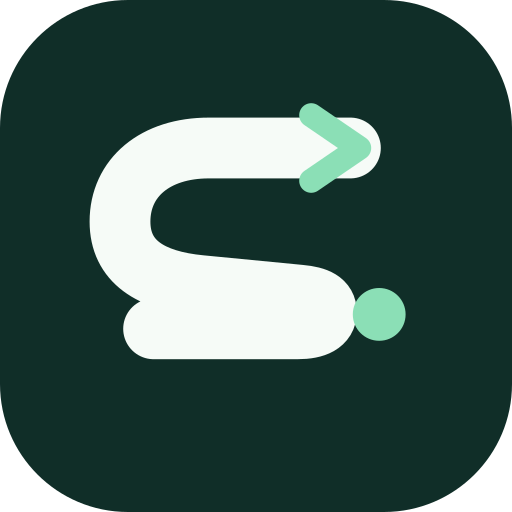
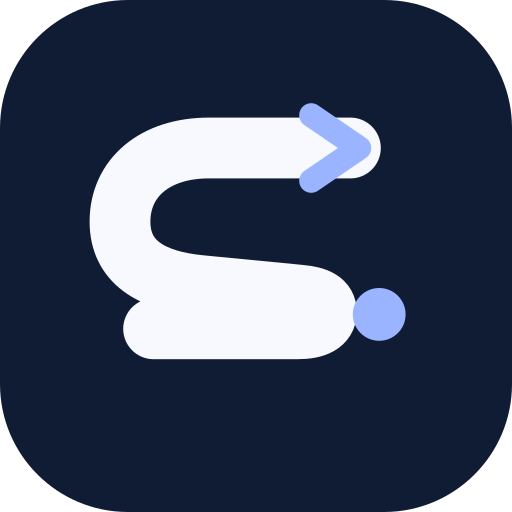
Refresh StockSOS visual system and homepage

Changed region(s): [[0.5625, 0.1875, 0.75, 0.375], [0.6875, 0.5625, 0.8125, 0.6875]]

diff --git a/src/app/visual-refresh.css b/src/app/visual-refresh.css
@@ -1,0 +1,231 @@
+/* StockSOS visual refresh. Shared tokens and components apply across routes. */
+:root {
+  --navy: #101c33;
+  --navy-soft: #2b3e61;
+  --blue: #3159dd;
+  --blue-dark: #2147c1;
+  --blue-pale: #eaf0ff;
+  --ink: #26334d;
+  --muted: #66748d;
+  --line: #dce3ef;
+  --surface: #f1f4fa;
+  --green: #129982;
+  --shadow: 0 16px 42px rgba(14, 28, 57, .09);
+}
+
+body { color: var(--ink); background: #f7f9fd; font-family: Inter, ui-sans-serif, system-ui, -apple-system, BlinkMacSystemFont, "Segoe UI", sans-serif; }
+main { background: #f7f9fd; }
+.header-inner, .page-container, .footer-main, .footer-bottom { width: min(1120px, calc(100% - 48px)); }
+.site-header { height: 70px; border-color: #e5e9f2; background: rgba(255, 255, 255, .94); box-shadow: 0 2px 18px rgba(19, 35, 67, .035); }
+.brand { font-size: 19px; letter-spacing: -.055em; }
+.brand-logo-mark { width: 38px; height: 38px; }
+.brand-accent { color: var(--blue); }
+.primary-nav { gap: 28px; color: #4c5d78; font-size: 12px; }
+.primary-nav a::after { background: var(--blue); }
+.header-actions { gap: 17px; }
+.header-actions .install-app-action, .header-login { color: #4c5d78; font-size: 12px; }
+.button { min-height: 43px; padding: 0 17px; border-radius: 11px; font-size: 12px; letter-spacing: -.01em; box-shadow: none; }
+.button-small { min-height: 38px; padding: 0 13px; }
+.button-primary { background: var(--blue); box-shadow: 0 7px 17px rgba(49, 89, 221, .15); }
+.button-primary:hover { background: var(--blue-dark); box-shadow: 0 10px 22px rgba(49, 89, 221, .2); }
+.button-secondary { color: var(--navy); border-color: #cfd8e8; background: #fff; }
+.button-secondary:hover { border-color: #a9b9d7; background: #f8faff; }
+.button-quiet { color: var(--blue-dark); background: var(--blue-pale); }
+.text-link { color: var(--blue-dark); }
+.eyebrow { color: var(--blue); letter-spacing: .115em; }
+h1, h2, h3 { color: var(--navy); letter-spacing: -.045em; }
+.lead { color: #60708a; }
+.section { padding: 68px 0; }
+.section-tight { padding: 48px 0; }
+.section-heading { margin-bottom: 32px; }
+.page-hero { position: relative; overflow: hidden; padding: 55px 0 43px; border-bottom: 1px solid #e1e8f4; background: radial-gradient(circle at 83% -40%, #dfe9ff 0, transparent 42%), #f1f5fd; }
+.page-hero::after { position: absolute; right: 4%; bottom: -125px; width: 250px; height: 250px; border: 1px solid #dbe5f8; border-radius: 50%; content: ""; pointer-events: none; }
+.page-hero h1 { max-width: 820px; margin: 12px 0 13px; font-size: clamp(35px, 4.5vw, 52px); line-height: 1.08; }
+.page-hero .lead { max-width: 680px; margin-bottom: 20px; font-size: 15px; line-height: 1.6; }
+.panel, .feature-card, .stat-card, .product-card, .auth-panel, .info-card { border: 1px solid var(--line); border-radius: 17px; background: #fff; box-shadow: 0 7px 24px rgba(15, 31, 65, .045); }
+.feature-icon { border-radius: 11px; color: var(--blue); background: var(--blue-pale); }
+.workflow-card { border: 1px solid var(--line); border-radius: 15px; background: #fff; }
+.workflow-number { color: #6d83b2; }
+.reach-explainer-points p { color: #4b5e7d; border-color: #dfe7f5; background: #f4f7fd; }
+.reach-explainer-points svg { color: var(--blue); }
+.form-field input, .form-field select, .form-field textarea, .search-input, .voice-field-row input { border-color: #cfd9e9; border-radius: 10px; }
+.form-field input:focus, .form-field select:focus, .form-field textarea:focus, .search-input:focus, .voice-field-row input:focus { border-color: var(--blue); outline-color: rgba(49, 89, 221, .13); }
+button:focus-visible, a:focus-visible, input:focus-visible, select:focus-visible, textarea:focus-visible, summary:focus-visible { outline-color: rgba(49, 89, 221, .45); }
+.dashboard-shell, .admin-console { background: #f3f6fc; }
+.supplier-workspace-nav a { border-color: var(--line); background: #fff; }
+.supplier-workspace-nav a > svg:first-child, .supplier-today .eyebrow, .supplier-task-action { color: var(--blue); }
+.supplier-task-icon, .supplier-today-icon { color: var(--blue); background: var(--blue-pale); }
+.admin-console-sidebar { border-color: #e1e7f2; }
+.admin-console-nav a[aria-current="page"], .admin-console-nav a:hover, .admin-console-nav a:focus-visible { color: var(--blue-dark); background: var(--blue-pale); }
+.admin-console-header { border-color: #e1e7f2; }
+.site-footer { padding-top: 43px; color: #cfdaec; border-color: #243655; background: #101c33; }
+.site-footer .brand { color: #fff; }
+.site-footer .brand-accent { color: #91afff; }
+.footer-brand p, .footer-location, .footer-links a, .footer-bottom { color: #a9b8d2; }
+.footer-links h3 { color: #f7f9ff; }
+.footer-bottom { border-color: #2b3b59; }
+.footer-phone { color: #e0eaff; }
+.auth-shell { background: radial-gradient(circle at 9% 5%, #e5ecff, transparent 34%), linear-gradient(180deg, #f3f6fd, #fff 75%); }
+.auth-layout .auth-panel { border-color: var(--line); box-shadow: 0 19px 48px rgba(19, 39, 79, .09); }
+.auth-layout .form-field label { color: var(--ink); }
+.auth-layout .form-field input:focus { border-color: var(--blue); box-shadow: 0 0 0 3px rgba(49, 89, 221, .12); }
+.auth-story { color: #eaf0ff; background: radial-gradient(circle at 90% 8%, rgba(111, 147, 255, .26), transparent 40%), linear-gradient(155deg, #101b34, #254377); box-shadow: 0 24px 60px rgba(15, 36, 83, .16); }
+.auth-story-kicker { color: #b2c9ff; }
+.auth-story-kicker span { background: #88a9ff; box-shadow: 0 0 0 4px rgba(136, 169, 255, .13); }
+.auth-story > p, .auth-story-steps small { color: #c5d4ed; }
+.auth-story-steps > div { border-color: rgba(225, 235, 255, .16); }
+.auth-story-steps > div > span { color: #a9c3ff; background: rgba(146, 177, 255, .14); }
+.auth-story-steps > div > svg, .auth-story-footnote { color: #a4b9e1; }
+.sign-in-methods { border-color: #dce4f2; background: #f1f4fa; }
+.sign-in-methods button { color: #62718a; }
+.sign-in-methods button[aria-pressed="true"], .sign-in-methods button:hover:not([aria-pressed="true"]) { color: var(--blue-dark); }
+.sign-in-methods button[aria-pressed="true"] { box-shadow: 0 2px 8px rgba(29, 48, 90, .09); }
+
+/* Home: a focused entry point, real inventory, then supplier distribution. */
+.home-page .hero { position: relative; isolation: isolate; padding: 64px 0 68px; color: #fff; background: radial-gradient(ellipse at 76% 23%, rgba(75, 107, 235, .34), transparent 40%), linear-gradient(135deg, #0b1428 5%, #162849 63%, #213d69 100%); }
+.home-page .hero::before { position: absolute; z-index: -1; inset: 0; width: 100%; height: 100%; border: 0; border-radius: 0; background-image: linear-gradient(rgba(255,255,255,.035) 1px, transparent 1px), linear-gradient(90deg, rgba(255,255,255,.035) 1px, transparent 1px); background-size: 56px 56px; mask-image: linear-gradient(90deg, transparent 20%, #000 100%); content: ""; pointer-events: none; }
+.home-page .hero::after { right: -170px; bottom: -280px; border-color: rgba(160, 189, 255, .13); animation: none; }
+.home-page .hero-grid { grid-template-columns: 1.04fr .96fr; gap: 46px; align-items: center; }
+.home-page .hero-copy { max-width: 610px; padding: 0; }
+.home-page .hero-copy > .eyebrow { margin-bottom: 17px; padding: 7px 11px; color: #a6c7ff; border-color: rgba(174, 201, 255, .2); background: rgba(174, 201, 255, .08); font-size: 10px; }
+.home-page .hero .status-dot { background: #77e3ca; box-shadow: 0 0 0 4px rgba(119, 227, 202, .12); }
+.home-page .hero h1 { max-width: 650px; margin: 0 0 20px; color: #fff; font-size: clamp(47px, 5vw, 68px); line-height: 1.02; letter-spacing: -.064em; }
+.home-page .hero h1 .highlight { color: #99b6ff; }
+.home-page .hero-copy .lead { max-width: 510px; margin-bottom: 22px; color: #cbd7ec; font-size: 15px; line-height: 1.65; }
+.home-page .hero-stock-search { max-width: 550px; margin: 0 0 13px; }
+.home-page .hero-stock-search label { margin-bottom: 7px; color: #d3e1fb; font-size: 11px; }
+.home-page .hero-stock-search > div { display: flex; flex-wrap: nowrap; gap: 8px; min-height: 60px; padding: 7px 7px 7px 15px; border: 1px solid rgba(224, 235, 255, .55); border-radius: 13px; background: #fff; box-shadow: 0 16px 38px rgba(4, 13, 35, .23); }
+.home-page .hero-stock-search > div > svg { color: #59708f; }
+.home-page .hero-stock-search input { min-width: 0; color: var(--navy); font-size: 14px; }
+.home-page .hero-stock-search input::placeholder { color: #8794a7; }
+.home-page .hero-stock-search .button { width: auto; flex: 0 0 auto; min-height: 44px; padding: 0 15px; }
+.home-page .hero-stock-search > div:focus-within { border-color: #a8c0ff; box-shadow: 0 0 0 4px rgba(153, 182, 255, .17), 0 16px 38px rgba(4, 13, 35, .23); }
+.home-page .hero-buttons { display: flex; align-items: center; gap: 19px; margin: 0 0 18px; }
+.home-page .hero-buttons .button { flex: 0 0 auto; }
+.home-page .hero .hero-buttons .button-secondary { min-height: 38px; color: #eef4ff; border-color: rgba(217, 230, 255, .27); background: rgba(255, 255, 255, .07); }
+.home-page .hero .hero-buttons .button-secondary:hover { border-color: #a4bfff; background: rgba(255,255,255,.12); }
+.hero-inline-link { display: inline-flex; align-items: center; gap: 7px; color: #dbe7ff; font-size: 12px; font-weight: 700; }
+.hero-inline-link:hover { color: #fff; }
+.hero-microcopy { display: inline-flex; align-items: center; gap: 7px; margin: 0; color: #99abc9; font-size: 11px; }
+.hero-microcopy svg { color: #8fd8c9; }
+.home-page .hero-visual { min-height: 0; padding: 0; }
+.network-panel { width: min(100%, 480px); overflow: hidden; padding: 23px; color: #dfe9fb; border: 1px solid rgba(187, 209, 255, .31); border-radius: 20px; background: rgba(12, 27, 54, .88); box-shadow: 0 28px 70px rgba(2, 8, 22, .34); backdrop-filter: blur(18px); }
+.network-panel-top, .network-panel-bottom { display: flex; align-items: center; justify-content: space-between; gap: 12px; font-size: 9px; font-weight: 800; letter-spacing: .12em; }
+.network-panel-top { color: #99add0; }
+.network-panel-dots { display: inline-flex; gap: 5px; }
+.network-panel-dots i { width: 6px; height: 6px; border-radius: 50%; background: #6184da; }
+.network-panel-dots i:first-child { background: #75dcca; }
+.network-panel h2 { margin: 27px 0 3px; color: #fff; font-size: 27px; line-height: 1.1; }
+.network-panel > p { margin: 0 0 17px; color: #9eb2d1; font-size: 12px; }
+.network-steps { display: grid; gap: 9px; }
+.network-step { display: grid; grid-template-columns: 24px 39px minmax(0, 1fr) 17px; align-items: center; gap: 11px; min-height: 69px; padding: 9px 12px; color: #ecf4ff; border: 1px solid rgba(186, 210, 255, .13); border-radius: 11px; background: rgba(255, 255, 255, .055); transition: border-color .2s ease, background .2s ease, transform .2s ease; }
+.network-step:hover, .network-step:focus-visible { border-color: rgba(163, 192, 255, .45); background: rgba(255, 255, 255, .095); transform: translateX(3px); }
+.network-step-number { color: #8fa6cf; font-size: 10px; font-weight: 800; }
+.network-step-icon { display: grid; width: 38px; height: 38px; place-items: center; color: #a5bdff; border-radius: 9px; background: rgba(101, 135, 223, .2); }
+.network-step strong, .network-step small { display: block; }
+.network-step strong { font-size: 12px; }
+.network-step small { margin-top: 2px; color: #a9bcda; font-size: 10px; }
+.network-step > svg { color: #a9c0ef; }
+.network-panel-bottom { margin-top: 20px; padding-top: 14px; color: #9eb2d1; border-top: 1px solid rgba(189, 209, 249, .17); }
+.network-panel-bottom span { display: inline-flex; align-items: center; gap: 7px; }
+.network-panel-bottom .status-dot { width: 6px; height: 6px; }
+
+.home-page .home-product-showcase { padding: 58px 0 64px; background: #f5f7fc; }
+.home-market-intro { align-items: end; margin-bottom: 24px; }
+.home-market-intro .eyebrow { color: var(--blue); }
+.home-market-intro h2 { max-width: 650px; margin: 8px 0 7px; font-size: clamp(27px, 3vw, 36px); }
+.home-market-intro .lead { color: #64728a; font-size: 13px; }
+.home-market-actions { gap: 10px; }
+.home-market-empty { display: grid; grid-template-columns: 1.25fr .75fr; min-height: 240px; overflow: hidden; border: 1px solid #dce4f2; border-radius: 19px; background: #fff; box-shadow: 0 14px 34px rgba(19, 39, 79, .055); }
+.home-market-empty > div:first-child { padding: 34px 38px; }
+.home-market-empty .eyebrow { color: var(--blue); }
+.home-market-empty h3 { margin: 9px 0 7px; font-size: 23px; }
+.home-market-empty p { max-width: 590px; margin-bottom: 19px; color: var(--muted); font-size: 13px; line-height: 1.55; }
+.home-market-empty .hero-buttons { margin: 0; gap: 9px; }
+.home-market-empty-art { position: relative; display: flex; flex-direction: column; align-items: center; justify-content: center; gap: 14px; min-height: 240px; color: #6d8bde; background: radial-gradient(circle at 50% 50%, #eaf0ff 0, #dce7ff 65%, #cedeff 100%); }
+.home-market-empty-art::before, .home-market-empty-art::after { position: absolute; width: 180px; height: 180px; border: 1px solid rgba(72, 105, 205, .19); border-radius: 50%; content: ""; }
+.home-market-empty-art::after { width: 260px; height: 260px; }
+.home-market-empty-art > svg, .home-market-empty-art > span { position: relative; z-index: 1; }
+.home-market-empty-art > span { color: #5876bc; font-size: 9px; font-weight: 800; letter-spacing: .13em; }
+
+.home-page .promotion-channel-strip { padding: 35px 0 31px; border-color: #31456b; background: #142541; }
+.home-page .promotion-channel-strip::before { background: radial-gradient(circle, rgba(118, 154, 255, .14), transparent 70%); }
+.promotion-channel-heading { gap: 32px; margin-bottom: 20px; }
+.promotion-channel-heading .eyebrow { color: #9dbbff; }
+.promotion-channel-heading h2 { font-size: clamp(25px, 2.9vw, 35px); }
+.promotion-channel-heading > p { color: #b6c7e2; font-size: 12px; }
+.promotion-channel { min-width: 180px; border-color: rgba(194, 211, 249, .14); border-radius: 12px; background: rgba(255, 255, 255, .075); }
+.promotion-channel-mark { border-radius: 9px; }
+.promotion-channel small { color: #a8bbd9; }
+.home-page .reach-home-section { padding: 63px 0; background: #eaf0fc; }
+.reach-home-grid { gap: 48px; }
+.reach-home-grid h2 { font-size: clamp(27px, 3.2vw, 38px); }
+.reach-home-grid .lead { font-size: 14px; line-height: 1.65; }
+.home-page .reach-home-preview { border-color: #d7e0f2; border-radius: 18px; background: #fff; box-shadow: 0 15px 40px rgba(24, 45, 92, .08); }
+.reach-preview-row { border-color: #e5eaf4; }
+.home-page .workflow-card { padding: 20px; border-color: #dce4f1; border-radius: 15px; background: #fff; }
+.home-page .workflow-card::before { height: 2px; background: linear-gradient(90deg, #3964ec, #9aaeff); }
+.home-page .workflow-number { margin-bottom: 14px; color: #6d83b2; font-size: 12px; }
+.home-page .workflow-card .feature-icon { margin-bottom: 13px; }
+.home-page .workflow-card h3 { font-size: 15px; }
+.home-page .workflow-card p { font-size: 12px; }
+.home-page .band { padding: 38px 0; background: linear-gradient(110deg, #101d35, #243f74); }
+.home-page .band h2 { font-size: 27px; }
+.home-page .band p { color: #c0cde5; }
+
+@media (max-width: 900px) {
+  .home-page .hero-grid { gap: 26px; }
+  .network-panel { padding: 16px; }
+  .network-step { grid-template-columns: 19px 34px minmax(0, 1fr) 16px; gap: 8px; padding: 8px; }
+  .network-step-icon { width: 34px; height: 34px; }
+  .reach-home-grid { gap: 28px; }
+}
+@media (max-width: 700px) {
+  .header-inner, .page-container, .footer-main, .footer-bottom { width: min(100% - 32px, 560px); }
+  .site-header { height: 62px; }
+  .brand { font-size: 18px; }
+  .hero-buttons .button { flex: 0 1 auto; }
+  .section { padding: 48px 0; }
+  .section-tight { padding: 35px 0; }
+  .page-hero { padding: 40px 0 30px; }
+  .page-hero h1 { font-size: clamp(31px, 8vw, 42px); }
+  .page-hero .lead { font-size: 14px; }
+  .home-page .hero { padding: 40px 0 44px; }
+  .home-page .hero-grid { grid-template-columns: 1fr; gap: 28px; }
+  .home-page .hero h1 { font-size: clamp(43px, 11vw, 59px); }
+  .home-page .hero-copy .lead { font-size: 14px; }
+  .home-page .hero-stock-search > div { flex-wrap: wrap; padding: 9px; }
+  .home-page .hero-stock-search > div > svg { margin-left: 5px; }
+  .home-page .hero-stock-search input { flex: 1 1 calc(100% - 43px); min-height: 40px; }
+  .home-page .hero-stock-search .button { width: 100%; min-height: 43px; }
+  .home-page .hero-buttons { gap: 12px; }
+  .home-page .hero-visual { display: block; }
+  .network-panel { width: 100%; }
+  .home-page .home-product-showcase { padding: 44px 0 49px; }
+  .home-market-actions { align-items: flex-start; flex-direction: row; flex-wrap: wrap; }
+  .home-market-empty { grid-template-columns: 1fr; }
+  .home-market-empty > div:first-child { padding: 24px; }
+  .home-market-empty-art { min-height: 115px; }
+  .home-market-empty-art::before { width: 95px; height: 95px; }
+  .home-market-empty-art::after { width: 150px; height: 150px; }
+  .home-market-empty-art > svg { width: 30px; height: 30px; }
+  .home-page .promotion-channel-strip { padding: 31px 0; }
+  .promotion-channel-heading { grid-template-columns: 1fr; gap: 11px; }
+  .home-page .reach-home-section { padding: 49px 0; }
+  .reach-home-grid { grid-template-columns: 1fr; }
+  .home-page .band h2 { font-size: 23px; }
+  .footer-main { gap: 28px; }
+}
+@media (max-width: 420px) {
+  .home-page .hero-buttons { align-items: flex-start; flex-direction: column; }
+  .home-page .hero-copy > .eyebrow { font-size: 9px; }
+  .network-panel { padding: 14px; }
+  .network-panel h2 { font-size: 24px; }
+  .network-panel-bottom { font-size: 8px; }
+  .home-market-empty .hero-buttons { align-items: stretch; }
+  .home-market-empty .button { width: 100%; }
+}
+@media (prefers-reduced-motion: reduce) {
+  .home-page .hero-copy > .eyebrow, .home-page .hero h1, .home-page .hero-copy > .lead, .home-page .hero-stock-search, .home-page .hero-buttons { animation: none; }
+  .network-step { transition: none; }
+}

diff --git a/src/app/page.tsx b/src/app/page.tsx
@@ -1,7 +1,7 @@
 import Link from "next/link";
 import Image from "next/image";
 import {
-  ArrowRight, ArrowUpRight, BadgeCheck, BarChart3, Boxes, Building2,
+  ArrowRight, ArrowUpRight, BadgeCheck, BarChart3, Boxes,
   Globe2, Megaphone, PackageSearch, ShieldCheck, Sparkles, Truck, Zap,
 } from "lucide-react";
 import { dedupePublicListings, formatMoney, getMarketplaceImageUrl, getProductsResult, type PublicProduct } from "@/lib/data";
@@ -68,53 +68,32 @@ export default async function HomePage() {
       <section className="hero">
         <div className="page-container hero-grid">
           <div className="hero-copy">
-            <span className="eyebrow"><span className="status-dot" />Source stock. Promote products. Reach customers.</span>
-            <h1>Find stock.<br /><span className="highlight">Grow your reach.</span></h1>
-            <p className="lead">StockSOS brings business buyers and suppliers together. Find available stock, publish your products and share your listings with more customers.</p>
+            <span className="eyebrow"><span className="status-dot" /> The inventory network for business</span>
+            <h1>Make stock<br /><span className="highlight">move smarter.</span></h1>
+            <p className="lead">Find the products your business needs. Put your own inventory in front of buyers. Move from a stock problem to a clear next step in one place.</p>
             <form className="hero-stock-search" action="/find-stock">
-              <label htmlFor="hero-query">What are you looking for?</label>
-              <div><PackageSearch size={22} aria-hidden="true" /><input id="hero-query" name="q" placeholder="Search products, brands, materials…" maxLength={80} /><button type="submit" className="button button-primary">Find stock <ArrowRight size={17} /></button></div>
+              <label htmlFor="hero-query">Start with a product</label>
+              <div><PackageSearch size={21} aria-hidden="true" /><input id="hero-query" name="q" placeholder="Search products or brands" maxLength={80} /><button type="submit" className="button button-primary">Search stock <ArrowRight size={17} /></button></div>
             </form>
             <div className="hero-buttons">
-              <Link className="button button-primary" href="/sos">Send an SOS <ArrowUpRight size={16} /></Link>
-              <Link className="button button-secondary" href="/become-supplier"><Megaphone size={16} /> Promote your products</Link>
+              <Link className="button button-secondary" href="/sos">Request hard-to-find stock <ArrowUpRight size={16} /></Link>
+              <Link className="hero-inline-link" href="/become-supplier">I want to sell <ArrowRight size={16} /></Link>
             </div>
-            <div className="hero-trust">
-              <span className="trust-item"><PackageSearch size={15} /> Buyer product discovery</span>
-              <span className="trust-item"><Megaphone size={15} /> Product sharing tools</span>
-              <span className="trust-item"><ShieldCheck size={15} /> Approved supplier accounts</span>
-            </div>
+            <p className="hero-microcopy"><ShieldCheck size={15} /> Supplier listings are reviewed before they appear publicly.</p>
           </div>
           <div className="hero-visual">
-            <div className="hero-pathways">
-              <span className="eyebrow">A better way to move stock</span>
-              <h2>What would you like to do?</h2>
-              <Link className="hero-pathway" href="/find-stock">
-                <span className="hero-pathway-icon"><PackageSearch size={18} /></span>
-                <span><strong>Find available stock</strong><small>Browse live listings from approved suppliers.</small></span>
-                <ArrowRight size={16} />
-              </Link>
-              <Link className="hero-pathway" href="/sos">
-                <span className="hero-pathway-icon"><Truck size={18} /></span>
-                <span><strong>Request what you need</strong><small>Send a sourcing request to relevant suppliers.</small></span>
-                <ArrowRight size={16} />
-              </Link>
-              <Link className="hero-pathway" href="/become-supplier">
-                <span className="hero-pathway-icon"><Megaphone size={18} /></span>
-                <span><strong>Promote your products</strong><small>Publish your listings for business buyers.</small></span>
-                <ArrowRight size={16} />
-              </Link>
+            <div className="network-panel">
+              <div className="network-panel-top"><span>STOCKSOS / HOW IT MOVES</span><span className="network-panel-dots" aria-hidden="true"><i /><i /><i /></span></div>
+              <h2>From need to next move.</h2>
+              <p>One connected path for sourcing and selling.</p>
+              <div className="network-steps">
+                <Link href="/find-stock" className="network-step"><span className="network-step-number">01</span><span className="network-step-icon"><PackageSearch size={20} /></span><span><strong>Discover stock</strong><small>Search real public inventory</small></span><ArrowUpRight size={17} /></Link>
+                <Link href="/sos" className="network-step"><span className="network-step-number">02</span><span className="network-step-icon"><Zap size={20} /></span><span><strong>Request and compare</strong><small>Get supplier quotations when needed</small></span><ArrowUpRight size={17} /></Link>
+                <Link href="/become-supplier" className="network-step"><span className="network-step-number">03</span><span className="network-step-icon"><Megaphone size={20} /></span><span><strong>Put products to work</strong><small>Publish and share your listings</small></span><ArrowUpRight size={17} /></Link>
+              </div>
+              <div className="network-panel-bottom"><span><span className="status-dot" /> BUILT FOR BUSINESS BUYERS</span><span>AND SUPPLIERS <ArrowRight size={13} /></span></div>
             </div>
           </div>
-        </div>
-      </section>
-
-      <section className="proof-strip">
-        <div className="page-container proof-inner">
-          <span><Megaphone size={16} /> Product promotion tools</span>
-          <span><Globe2 size={16} /> Public supplier storefronts</span>
-          <span><PackageSearch size={16} /> Buyer product discovery</span>
-          <span><BadgeCheck size={16} /> Approved supplier accounts</span>
         </div>
       </section>
 
@@ -128,7 +107,7 @@ export default async function HomePage() {
             </div>
             <div className="home-market-actions"><Link className="button button-primary" href="/find-stock">Explore all stock <ArrowRight size={16} /></Link><Link className="text-link" href="/sos">Need something else? Send an SOS <ArrowUpRight size={14} /></Link></div>
           </div>
-          {productFeedError ? <div className="notice notice-error" role="alert"><PackageSearch size={18} /><div><strong>Live products are temporarily unavailable.</strong><p>{productFeedError}</p></div></div> : publicListings.length ? <div className="home-market-content"><ProductShowcaseCard product={publicListings[0]} featured /><div className="catalog-grid home-product-grid">{publicListings.slice(1).map((product) => <ProductShowcaseCard product={product} key={product.id} />)}</div></div> : <div className="empty-state home-product-empty"><div className="empty-state-icon"><Sparkles size={22} /></div><h3>The marketplace is getting ready.</h3><p>When approved suppliers publish available products, you’ll see them here. You can already tell StockSOS what you need and invite suppliers to quote.</p><div className="hero-buttons"><Link className="button button-primary" href="/sos">Request stock <ArrowRight size={15} /></Link><Link className="button button-secondary" href="/become-supplier">List your products</Link></div></div>}
+          {productFeedError ? <div className="notice notice-error" role="alert"><PackageSearch size={18} /><div><strong>Live products are temporarily unavailable.</strong><p>{productFeedError}</p></div></div> : publicListings.length ? <div className="home-market-content"><ProductShowcaseCard product={publicListings[0]} featured /><div className="catalog-grid home-product-grid">{publicListings.slice(1).map((product) => <ProductShowcaseCard product={product} key={product.id} />)}</div></div> : <div className="home-market-empty"><div><span className="eyebrow"><Sparkles size={14} /> New marketplace</span><h3>The first listings are on their way.</h3><p>Approved suppliers will appear here as they publish products. In the meantime, describe what you need and let suppliers respond with an offer.</p><div className="hero-buttons"><Link className="button button-primary" href="/sos">Request stock <ArrowRight size={15} /></Link><Link className="button button-secondary" href="/become-supplier">List your products</Link></div></div><div className="home-market-empty-art" aria-hidden="true"><PackageSearch size={44} /><span>YOUR NEXT SOURCE STARTS HERE</span></div></div>}
         </div>
       </section>
 
@@ -183,21 +162,6 @@ export default async function HomePage() {
                 <p>{step.copy}</p>
               </article>;
             })}
-          </div>
-        </div>
-      </section>
-
-      <section className="section surface">
-        <div className="page-container">
-          <div className="section-heading">
-            <span className="eyebrow">One network, two ways to move</span>
-            <h2>Source what you need. Recover the sale you almost lost.</h2>
-            <p className="lead">A stockout should not have to become a lost customer. StockSOS gives merchants a path to find supply and share their own stock with other businesses.</p>
-          </div>
-          <div className="card-grid">
-            <article className="feature-card"><span className="feature-icon"><PackageSearch size={20} /></span><h3>For buyers</h3><p>Post a specific request, receive supplier quotations, compare the terms, then choose whether to proceed.</p><Link className="text-link" href="/sos">Create an SOS request <ArrowRight size={15} /></Link></article>
-            <article className="feature-card"><span className="feature-icon"><Building2 size={20} /></span><h3>For suppliers</h3><p>List available stock, respond to matching requests and manage quotations and orders from one workspace.</p><Link className="text-link" href="/become-supplier">Apply to supply <ArrowRight size={15} /></Link></article>
-            <article className="feature-card"><span className="feature-icon"><Zap size={20} /></span><h3>For local merchants</h3><p>Share a business profile through SOS Link and ask the network to help source items you do not carry.</p><Link className="text-link" href="/how-it-works">See how it works <ArrowRight size={15} /></Link></article>
           </div>
         </div>
       </section>

diff --git a/src/app/manifest.ts b/src/app/manifest.ts
@@ -10,8 +10,8 @@ export default function manifest(): MetadataRoute.Manifest {
     scope: "/",
     display: "standalone",
     orientation: "any",
-    background_color: "#f2f6f1",
-    theme_color: "#102e28",
+    background_color: "#f7f9fd",
+    theme_color: "#101c33",
     categories: ["business", "shopping"],
     icons: [
       { src: "/pwa-192.png", sizes: "192x192", type: "image/png", purpose: "any" },

diff --git a/src/app/layout.tsx b/src/app/layout.tsx
@@ -1,6 +1,7 @@
 import type { Metadata } from "next";
 import { PUBLIC_SITE_ORIGIN } from "@/lib/site-url";
 import "./globals.css";
+import "./visual-refresh.css";
 import { SiteHeader } from "@/components/site-header";
 import { SiteFooter } from "@/components/site-footer";
 import { MobileBottomNav } from "@/components/mobile-bottom-nav";
